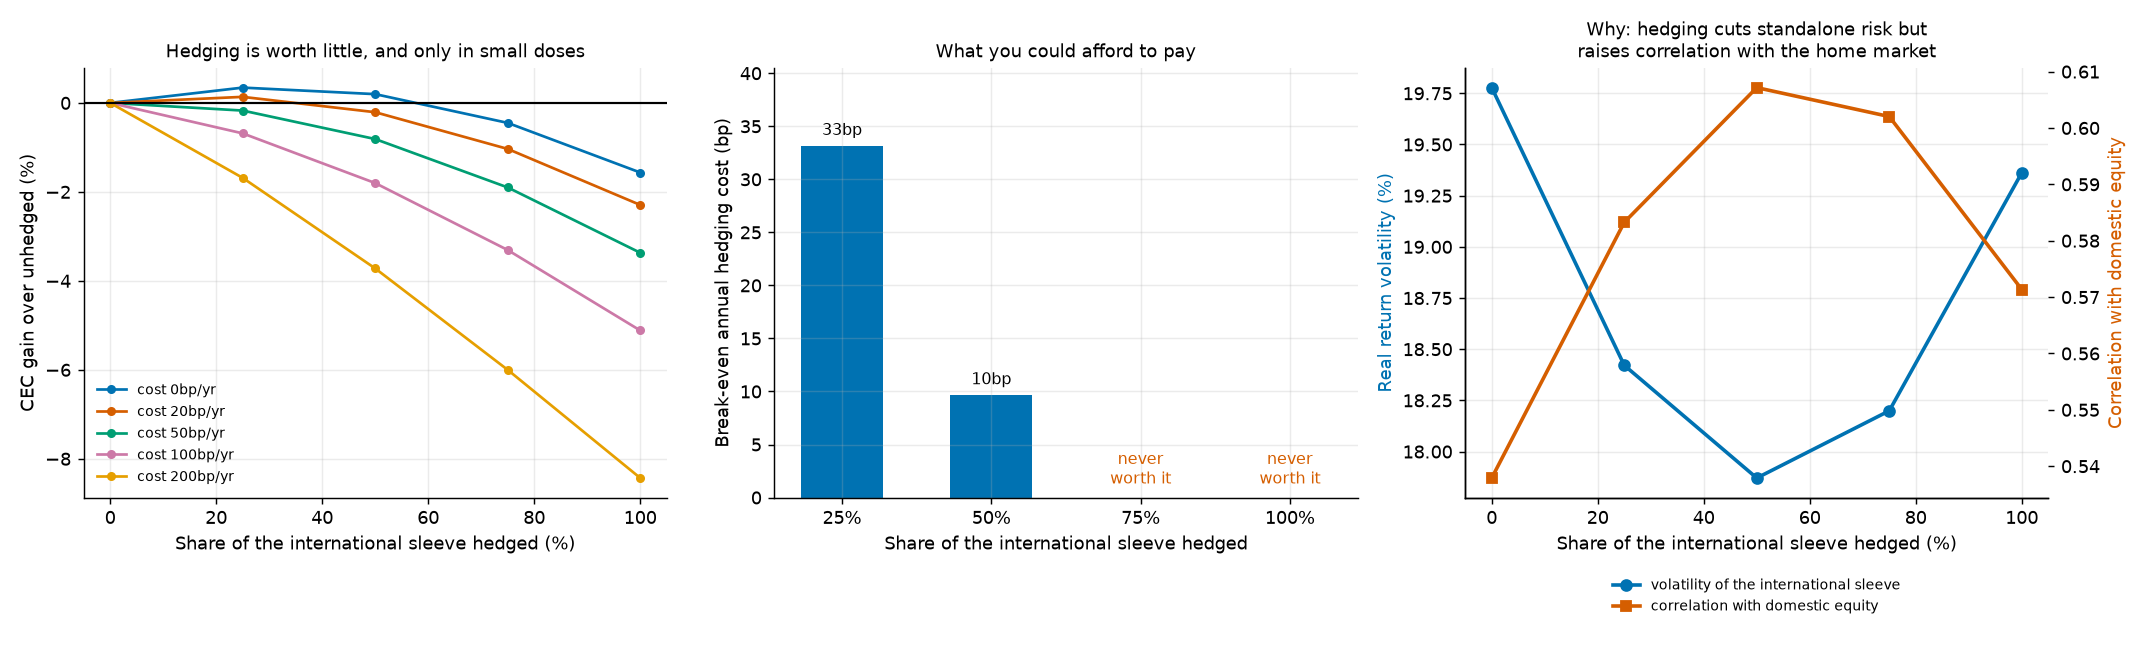
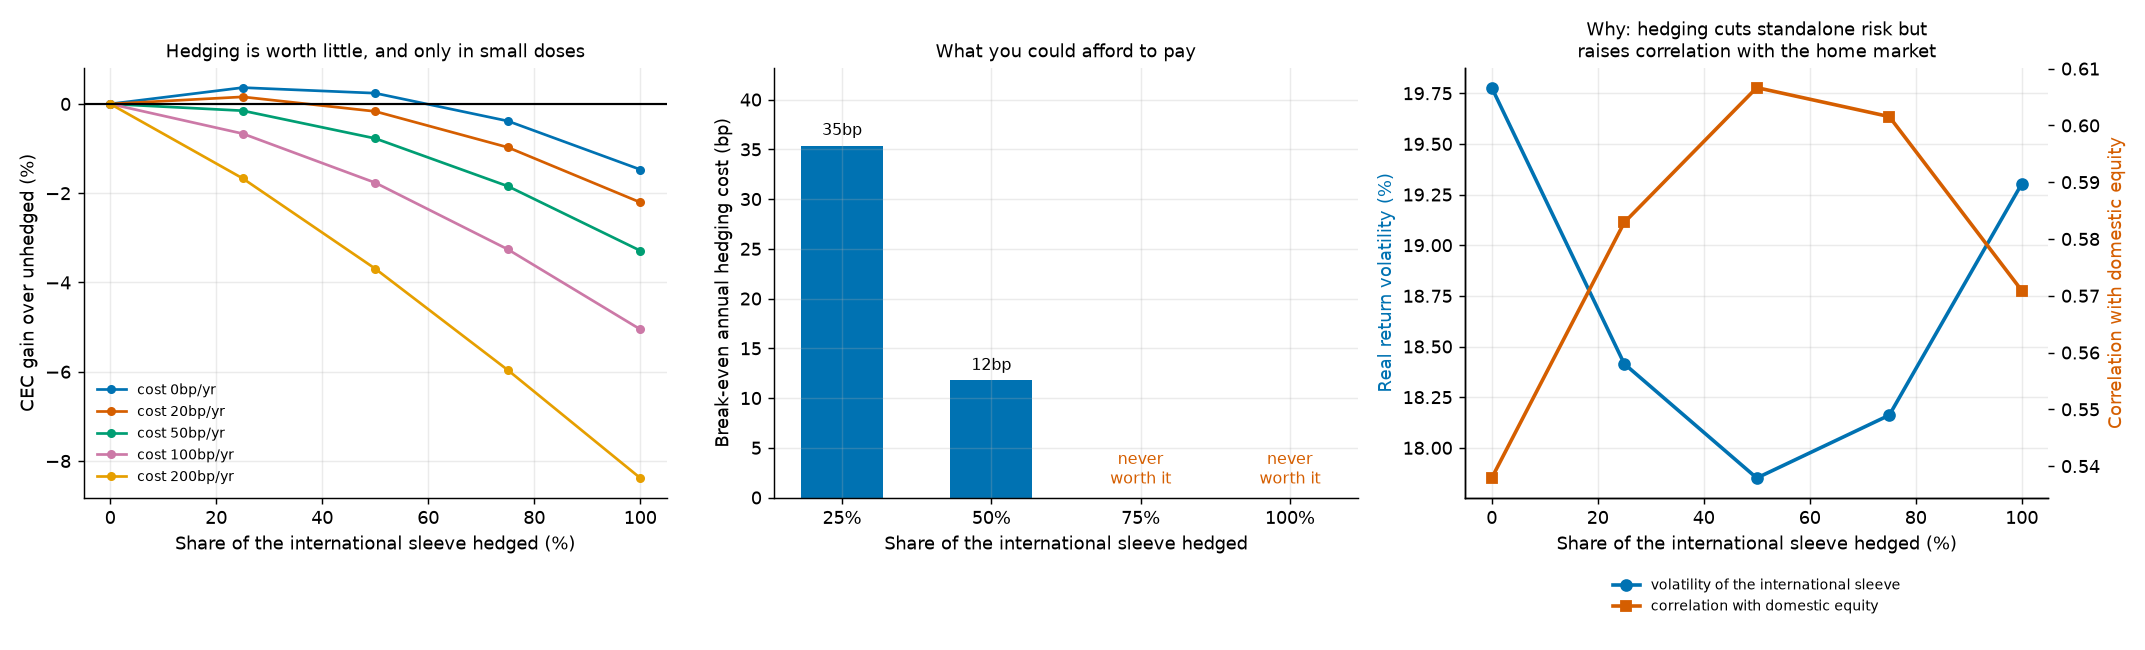
Correct the deflator bullet and put the audit tables in percent
The bullet claimed the deflator gate costs only the years past the end of
Clio's price index. Checking which years it actually dropped: New Zealand also
loses 1936, 1944 and 1946 to gaps in that index, so the bullet describes both
mechanisms now and derives the cut-off year from the recovered table rather
than naming a country.

The housing and wage tables printed decimals beside prose quoting percentages.
Both are in percent now, with the autocorrelation column moved last so the
comparable magnitudes sit together.

Claude-Session: https://claude.ai/code/session_01N7pEHUPwZbMXSfjciyf6PN

diff --git a/src/report.py b/src/report.py
@@ -4581,34 +4581,35 @@ def write_doc_14(
         floatfmt="{:.0f}") if len(recovered) else "_Nothing to recover._"
     n_recovered = int(recovered["observed_years"].sum()) if len(recovered) \
         else 0
-    # Named from the data: which recovered series stop before the panel does,
-    # and when. Asserting a country here would go stale the moment the set of
-    # recovered countries changes.
+    # Read from the data: the last year any recovered series reaches. Naming a
+    # country or a year here would go stale the moment the sources change.
     early = recovered[recovered["last_year"] < int(cfg["data"]["end_year"])] \
         if len(recovered) else recovered
-    clio_end_note = ("; ".join(
-        f"{row.country} {row.series} ends {int(row.last_year)}"
-        for row in early.itertuples()) if len(early)
-        else "no recovered series stops early")
+    clio_last = int(early["last_year"].max()) if len(early) \
+        else int(cfg["data"]["end_year"])
     recovered_countries = sorted(set(recovered["country"])) if len(recovered) \
         else []
 
     housing_tbl = md_table(_compact(
-        housing, ["country", "years", "first_year", "last_year", "mean", "sd",
-                  "autocorrelation", "sd_desmoothed", "equity_sd"],
+        _pct(housing, ["mean", "sd", "sd_desmoothed", "equity_sd"]),
+        ["country", "years", "first_year", "last_year", "mean", "sd",
+         "sd_desmoothed", "equity_sd", "autocorrelation"],
         {"country": "Country", "years": "Years", "first_year": "From",
-         "last_year": "To", "mean": "Mean real return",
-         "sd": "s.d. (as published)", "autocorrelation": "Autocorrelation",
-         "sd_desmoothed": "s.d. de-smoothed", "equity_sd": "Equity s.d."}),
-        floatfmt="{:.3f}") if len(housing) else "_Not audited._"
+         "last_year": "To", "mean": "Mean real return (%)",
+         "sd": "s.d. as published (%)",
+         "sd_desmoothed": "s.d. de-smoothed (%)",
+         "equity_sd": "Equity s.d. (%)",
+         "autocorrelation": "Autocorrelation"}),
+        floatfmt="{:.2f}") if len(housing) else "_Not audited._"
 
     wage_tbl = md_table(_compact(
-        wages, ["country", "years", "first_year", "last_year",
+        _pct(wages, ["geometric_mean", "sd"]),
+        ["country", "years", "first_year", "last_year",
                 "geometric_mean", "sd", "career_multiple"],
         {"country": "Country", "years": "Years", "first_year": "From",
-         "last_year": "To", "geometric_mean": "Real wage growth p.a.",
-         "sd": "s.d.", "career_multiple": "Compounded over a career"}),
-        floatfmt="{:.4f}") if len(wages) else "_Not audited._"
+         "last_year": "To", "geometric_mean": "Real wage growth p.a. (%)",
+         "sd": "s.d. (%)", "career_multiple": "Compounded over a career"}),
+        floatfmt="{:.2f}") if len(wages) else "_Not audited._"
 
     wage_section = ""
     if len(wages) and wage.get("countries"):
@@ -4794,10 +4795,12 @@ Three constraints were imposed on the recovery, and each one costs coverage:
 
 * **A real return needs a real deflator.** A genuine nominal yield divided by a
   drawn price index is not an observation, so a country-year is marked observed
-  only where that country's own inflation is empirical too. The Clio-Infra
-  price indices end before the panel does, and the years past their end are
-  dropped here rather than deflated by a factor-model estimate --
-  {clio_end_note}.
+  only where that country's own inflation is empirical too. For the Clio-Infra
+  countries that costs both the years past the end of Clio's own price index
+  and a scattering of interwar years where that index has gaps -- which is why
+  those series stop in {clio_last} rather than running to
+  {int(cfg["data"]["end_year"])}. The alternative was to deflate a real yield
+  by a factor-model estimate and call the result an observation.
 * **No equity was recovered**, because no source available here carries an
   equity return for these countries. Their equity remains simulated, which is
   why they are Tier B and not Tier A, and why section 7 below is unchanged by

diff --git a/paper/content.py b/paper/content.py
@@ -776,10 +776,10 @@ def section_data(ctx: Any) -> List[Flowable]:
             f"audit it rather than leave it unmentioned."))
         out.extend(ctx.table(
             rows_from(hs["frame"],
-                      ["country", "years", "mean", "sd", "autocorrelation",
-                       "sd_desmoothed", "equity_sd"],
+                      ["country", "years", "mean", "sd", "sd_desmoothed",
+                       "equity_sd", "autocorrelation"],
                       ["Country", "Years", "Mean real", "s.d. published",
-                       "Autocorr.", "s.d. de-smoothed", "Equity s.d."],
+                       "s.d. de-smoothed", "Equity s.d.", "Autocorr."],
                       {"country": str, "years": lambda v: f"{int(v)}",
                        "mean": lambda v: pc(v, 1), "sd": lambda v: pc(v, 1),
                        "autocorrelation": lambda v: f2(v, 2),
@@ -790,9 +790,9 @@ def section_data(ctx: Any) -> List[Flowable]:
                   "from the same source as the equity series. De-smoothing is "
                   "first-order Geltner using each country's own lag-one "
                   "autocorrelation."),
-            col_widths=[ctx.width * 0.20, ctx.width * 0.10, ctx.width * 0.14,
-                        ctx.width * 0.16, ctx.width * 0.12,
-                        ctx.width * 0.16, ctx.width * 0.12]))
+            col_widths=[ctx.width * 0.20, ctx.width * 0.09, ctx.width * 0.14,
+                        ctx.width * 0.15, ctx.width * 0.16,
+                        ctx.width * 0.14, ctx.width * 0.12]))
         out.append(ctx.p(
             f"The comparison is the one the source project is known for. "
             f"Median real housing returns are <b>{pc(hs['mean'], 1)}</b> "

diff --git a/docs/08_currency_hedging.md b/docs/08_currency_hedging.md
@@ -3,7 +3,7 @@
 Whether to hedge foreign equity back to the home currency, and the annual cost at which the answer flips.
 
 _This file is generated by `main.py`; edit `src/report.py` rather than the Markdown._
-Generated 2026-08-28 08:30 UTC.
+Generated 2026-08-28 22:30 UTC.
 
 ## 1. The question
 
@@ -62,28 +62,28 @@ cost (columns):
 | hedge_ratio | 0.0 | 0.001 | 0.002 | 0.003 | 0.005 | 0.0075 | 0.01 | 0.015 | 0.02 |
 | --- | --- | --- | --- | --- | --- | --- | --- | --- | --- |
 | 0.0000 | 0.9999 | -- | -- | -- | -- | -- | -- | -- | -- |
-| 0.2500 | 1.0034 | 1.0023 | 1.0013 | 1.0002 | 0.9982 | 0.9956 | 0.9931 | 0.9880 | 0.9831 |
-| 0.5000 | 1.0019 | 0.9999 | 0.9978 | 0.9958 | 0.9918 | 0.9868 | 0.9819 | 0.9722 | 0.9627 |
-| 0.7500 | 0.9954 | 0.9925 | 0.9896 | 0.9867 | 0.9809 | 0.9738 | 0.9668 | 0.9532 | 0.9399 |
-| 1.0000 | 0.9843 | 0.9806 | 0.9770 | 0.9734 | 0.9662 | 0.9574 | 0.9488 | 0.9318 | 0.9156 |
+| 0.2500 | 1.0036 | 1.0025 | 1.0015 | 1.0005 | 0.9984 | 0.9958 | 0.9933 | 0.9882 | 0.9832 |
+| 0.5000 | 1.0023 | 1.0003 | 0.9982 | 0.9962 | 0.9922 | 0.9872 | 0.9823 | 0.9726 | 0.9630 |
+| 0.7500 | 0.9961 | 0.9931 | 0.9902 | 0.9873 | 0.9815 | 0.9744 | 0.9674 | 0.9536 | 0.9403 |
+| 1.0000 | 0.9852 | 0.9815 | 0.9779 | 0.9742 | 0.9670 | 0.9582 | 0.9494 | 0.9324 | 0.9161 |
 
 Break-even annual cost, per ratio:
 
 | hedge_ratio | unhedged_cec | cec_at_zero_cost | gain_at_zero_cost_pct | break_even_annual_cost |
 | --- | --- | --- | --- | --- |
-| 0.25000 | 0.99992 | 1.00335 | 0.34369 | 0.00332 |
-| 0.50000 | 0.99992 | 1.00189 | 0.19713 | 0.00097 |
-| 0.75000 | 0.99992 | 0.99542 | -0.44962 | -- |
-| 1.00000 | 0.99992 | 0.98427 | -1.56526 | -- |
+| 0.25000 | 0.99992 | 1.00357 | 0.36564 | 0.00354 |
+| 0.50000 | 0.99992 | 1.00233 | 0.24103 | 0.00118 |
+| 0.75000 | 0.99992 | 0.99610 | -0.38208 | -- |
+| 1.00000 | 0.99992 | 0.98523 | -1.46945 | -- |
 
 Optimal hedge ratio at each assumed cost:
 
 | hedge_cost | optimal_hedge_ratio | cec_at_optimum | gain_over_unhedged_pct |
 | --- | --- | --- | --- |
-| 0.00000 | 0.25000 | 1.00335 | 0.34369 |
-| 0.00100 | 0.25000 | 1.00231 | 0.23923 |
-| 0.00200 | 0.25000 | 1.00127 | 0.13563 |
-| 0.00300 | 0.25000 | 1.00024 | 0.03263 |
+| 0.00000 | 0.25000 | 1.00357 | 0.36564 |
+| 0.00100 | 0.25000 | 1.00253 | 0.26121 |
+| 0.00200 | 0.25000 | 1.00150 | 0.15800 |
+| 0.00300 | 0.25000 | 1.00048 | 0.05580 |
 | 0.00500 | 0.00000 | 0.99992 | 0.00000 |
 | 0.00750 | 0.00000 | 0.99992 | 0.00000 |
 | 0.01000 | 0.00000 | 0.99992 | 0.00000 |
@@ -91,11 +91,11 @@ Optimal hedge ratio at each assumed cost:
 | 0.02000 | 0.00000 | 0.99992 | 0.00000 |
 
 **Even for free, hedging is barely worth doing, and only in small doses.** The
-best ratio at zero cost is **25%**, worth +0.34% of certainty
+best ratio at zero cost is **25%**, worth +0.37% of certainty
 equivalent consumption. Hedging half the sleeve is worth essentially nothing.
 Hedging three-quarters or all of it is *negative* at any price.
 
-**The break-even is about 33 basis points a year**, at the 25% ratio. Above
+**The break-even is about 35 basis points a year**, at the 25% ratio. Above
 that, not hedging wins. Retail hedged share classes generally cost more than
 that, which makes the practical answer for this investor: don't.
 
@@ -104,10 +104,10 @@ that, which makes the practical answer for this investor: don't.
 | hedge_ratio | intl_mean | intl_geometric_mean | intl_sd | intl_p5 | corr_intl_domestic_equity | corr_intl_inflation |
 | --- | --- | --- | --- | --- | --- | --- |
 | 0.0000 | 0.0812 | 0.0633 | 0.1978 | -0.2147 | 0.5379 | -0.0400 |
-| 0.2500 | 0.0804 | 0.0643 | 0.1842 | -0.1957 | 0.5833 | -0.0413 |
-| 0.5000 | 0.0797 | 0.0642 | 0.1787 | -0.1968 | 0.6072 | -0.0409 |
-| 0.7500 | 0.0789 | 0.0631 | 0.1820 | -0.2024 | 0.6020 | -0.0386 |
-| 1.0000 | 0.0781 | 0.0608 | 0.1936 | -0.2143 | 0.5713 | -0.0347 |
+| 0.2500 | 0.0804 | 0.0642 | 0.1841 | -0.1957 | 0.5829 | -0.0415 |
+| 0.5000 | 0.0796 | 0.0642 | 0.1785 | -0.1941 | 0.6067 | -0.0413 |
+| 0.7500 | 0.0788 | 0.0631 | 0.1816 | -0.2014 | 0.6015 | -0.0391 |
+| 1.0000 | 0.0781 | 0.0608 | 0.1930 | -0.2154 | 0.5709 | -0.0353 |
 
 The mechanism is visible in two columns, and it is not the one hedging is
 usually sold on.
@@ -154,7 +154,7 @@ sleeve in isolation and close to false of the portfolio that holds it.
 | Hedge ratios | 0%, 25%, 50%, 75%, 100% |
 | Annual costs | 0bp, 10bp, 20bp, 30bp, 50bp, 75bp, 100bp, 150bp, 200bp |
 | Panel | `dev38` |
-| Wall clock | 46s |
+| Wall clock | 54s |
 
 ## 7. Artefacts
 

diff --git a/docs/09_retirement_timing.md b/docs/09_retirement_timing.md
@@ -3,7 +3,7 @@
 Retiring on a wealth trigger rather than a birthday, and how much the decade around the retirement date decides.
 
 _This file is generated by `main.py`; edit `src/report.py` rather than the Markdown._
-Generated 2026-08-28 10:28 UTC.
+Generated 2026-08-28 22:31 UTC.
 
 ## 1. Two questions
 
@@ -209,7 +209,7 @@ no penalty", not as "there is none".
 | Rules compared | 8 |
 | Working-income floor | 25% of average earnings (and 0% for comparison) |
 | Utility window | whole lifetime (see section 1) |
-| Wall clock | 29s |
+| Wall clock | 23s |
 
 The path-dependent simulator reproduces the fixed-date engine exactly when
 given a fixed-age rule, to floating-point tolerance -- the career-average

diff --git a/docs/07_optimal_glide_path.md b/docs/07_optimal_glide_path.md
@@ -3,7 +3,7 @@
 Optimising the age-by-asset weight schedule directly, instead of testing a glide path someone else chose.
 
 _This file is generated by `main.py`; edit `src/report.py` rather than the Markdown._
-Generated 2026-08-28 22:10 UTC.
+Generated 2026-08-28 22:29 UTC.
 
 ## 1. The question docs/04 left open
 
@@ -50,7 +50,7 @@ is the difference between this search taking minutes and taking an hour.
 | Sweeps | 2 |
 | Risk aversions solved | 2, 5, 10 |
 | Candidate evaluations | 5,784 |
-| Wall clock | 683s |
+| Wall clock | 659s |
 
 ## 3. The answer: there is almost no glide
 
